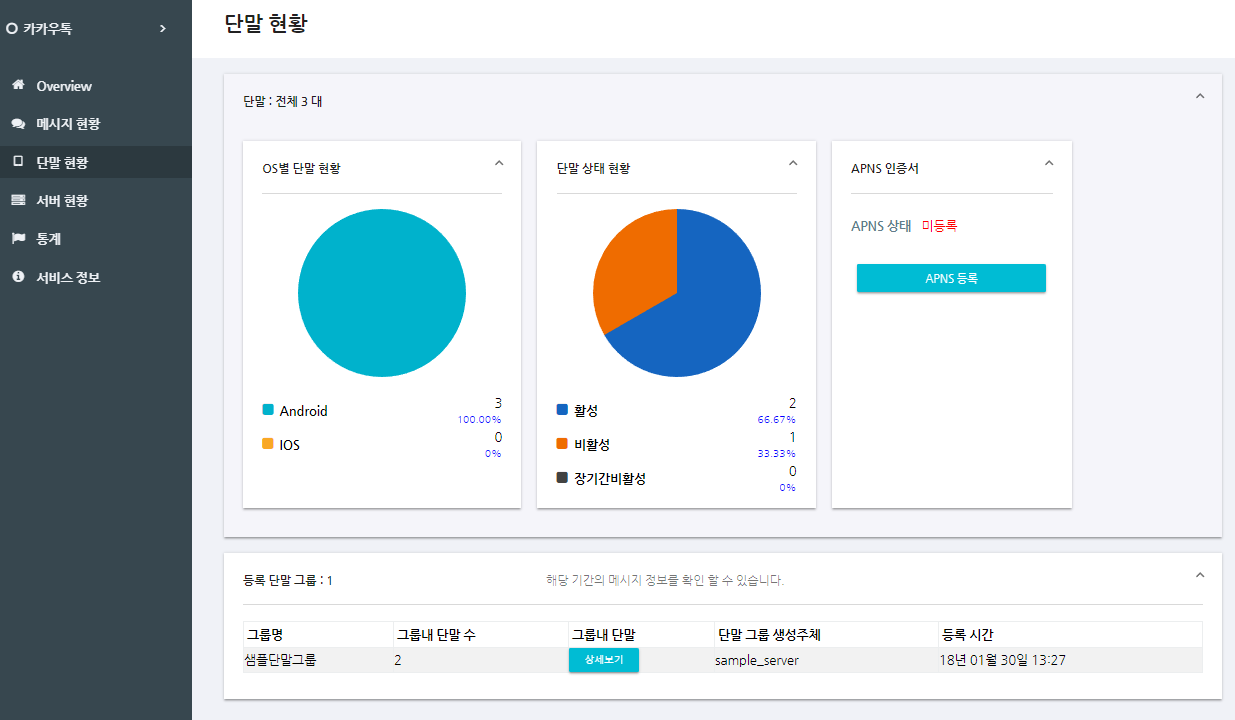
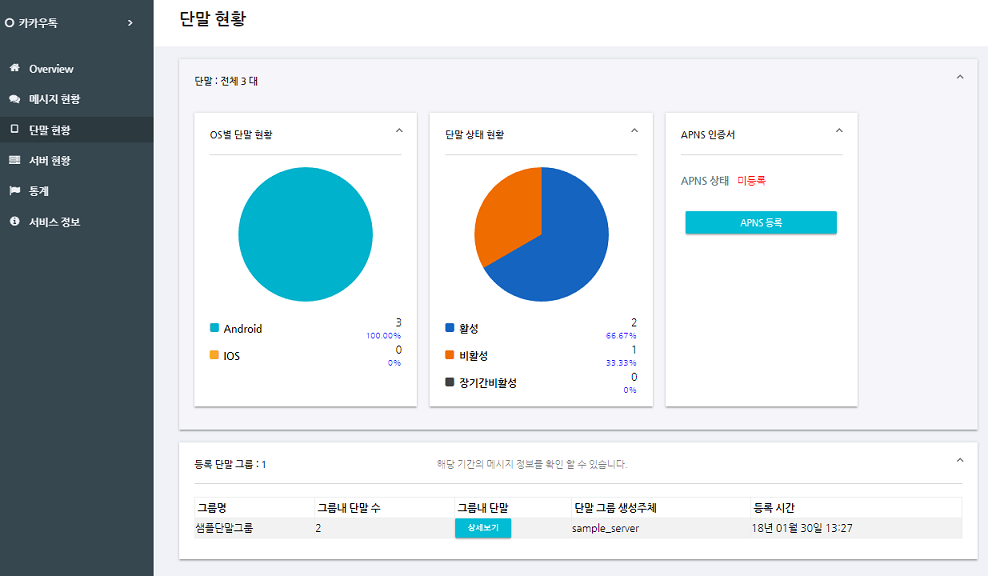
이미지 최적화
이미지 사이즈 최적화

diff --git a/introduction/README.md b/introduction/README.md
@@ -125,7 +125,7 @@
 
 - 브라우저로 [www.rationalowl.com](http://www.rationalowl.com) 클릭
 
-![이미지 이름](./img/www.png)
+![이미지 이름](./img/www.jpg)
 
 - LOGIN 버튼 클릭
 
@@ -538,7 +538,7 @@ serverMgr.sendGroupMsg(data, grpId, supportMsgQ, notiTitle, notiBody);
 
 메시지 전달 현황은 관리자 콘솔의 '서비스 > 메시지 현황'에서 실시간 모니터링이 가능하다.
 
-![이미지 이름](./img/msg_monitoring.png)
+![이미지 이름](./img/msg_monitoring.gif)
 
 ### 업스트림 메시지
 
